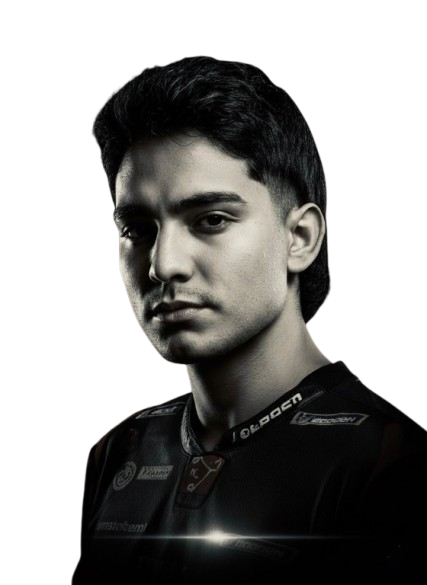
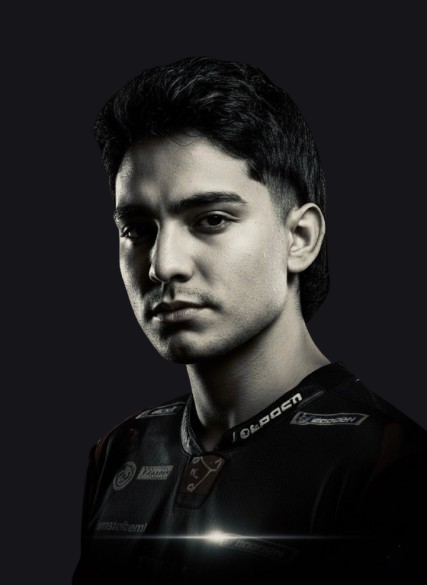
fix: use plain name for link-preview title and give OG photo a dark background
og:title/twitter:title now just say "Fherney Silva" instead of
repeating the job title. hi-fher.png had transparency, which social
platforms were rendering on white — composited it onto the site's
navy background instead.

diff --git a/index.html b/index.html
@@ -12,14 +12,14 @@
     <link rel="canonical" href="https://www.fherneysilva.com/" />
     <meta property="og:type" content="website" />
     <meta property="og:url" content="https://www.fherneysilva.com/" />
-    <meta property="og:title" content="Fherney Silva - Software Engineer" />
+    <meta property="og:title" content="Fherney Silva" />
     <meta
       property="og:description"
       content="Senior Software Engineer, Tech Lead, and CEO of Siscodex. Building technology that scales."
     />
     <meta property="og:image" content="https://www.fherneysilva.com/assets/hi-fher.png" />
     <meta name="twitter:card" content="summary_large_image" />
-    <meta name="twitter:title" content="Fherney Silva - Software Engineer" />
+    <meta name="twitter:title" content="Fherney Silva" />
     <meta
       name="twitter:description"
       content="Senior Software Engineer, Tech Lead, and CEO of Siscodex. Building technology that scales."

diff --git a/docs/audit.md b/docs/audit.md
@@ -1,13 +1,13 @@
-# Performance y auditoría Lighthouse
+# Auditoría Lighthouse
 
 ## Estado actual (última auditoría: 2026-08-04)
 
-| Categoría | Puntaje |
-| --- | --- |
-| SEO | 100 |
-| Accesibilidad | 100 |
-| Buenas prácticas | 100 |
-| Rendimiento | 92 |
+| Categoría        | Puntaje |
+| ---------------- | ------- |
+| SEO              | 100     |
+| Accesibilidad    | 100     |
+| Buenas prácticas | 100     |
+| Rendimiento      | 92      |
 
 Medido con `npx lighthouse <url> --form-factor=mobile --screenEmulation.mobile` (perfil mobile, que es más estricto que desktop — es el que se reporta acá).
 
